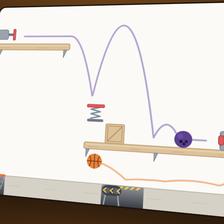
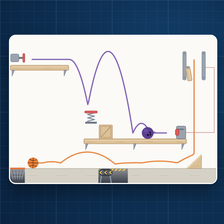
Play stage grows with its game; Machine copy and share card rewritten
The play column was stretched to exactly the window height, so a game
taller than the window spilled past it and its last row (Clock / How to
play / Give up) sat cut off at the edge even scrolled to the end. The
column now grows with its game. Games that fit are unchanged.

Machine now leads with 'Combine simple machines and tools into a
solution' everywhere, and gets a new blueprint share card and tile.

Claude-Session: https://claude.ai/code/session_01Hu59RNt8nMyqcZrs4B9qGX

diff --git a/lib/daily-games.js b/lib/daily-games.js
@@ -118,7 +118,7 @@ const RAW = [
   { key: 'errands', miss: 'Minutes behind', name: 'Errands', cat: 'Logic', tag: 'Plan the round, be home soonest', tagLong: 'Pick the order of your stops round town, keep every rule and be home as soon as you can', how: 'A town of streets seen from above, a list of stops and a few rules. A shop shuts at a set time, another opens late, something you buy has to be home before it spoils, and one stop has to come before another. Tap the stops in the order you will drive them. The route draws itself, the timetable fills in and each rule turns green or red. Trying an order costs nothing; Drive Home commits the trip. You are ranked on minutes behind the soonest possible trip. The town grows from four stops on Monday to eight on Sunday.', color: '#be123c', colorNavy: '#fda4af' },
   { key: 'dash', miss: 'Dollars short', name: 'Dash', cat: 'Logic', tag: 'Too many orders, make the most in tips', tagLong: 'Drive one delivery shift with more orders than you can carry and finish with the most in tips', how: 'A town of streets seen from above, restaurants with orders waiting and a door for each. There is never time to deliver them all. Tap an order to pick it up and again to drop it off. Every block and every stop costs minutes, the bag holds two, and a tip shrinks once its order runs late. Each order shows when you would arrive and what it would pay. Trying a plan costs nothing; End Shift commits the night. You are ranked on dollars short of the best possible shift. The town grows from five orders on Monday to ten restaurants on Sunday.', color: '#be123c', colorNavy: '#fda4af' },
   { key: 'pack', miss: 'Re-packs', name: 'Pack', cat: 'Visual', tag: 'Fit it all in the trunk', tagLong: 'Load every bag, box and sofa into the vehicle in three dimensions', how: 'A pile of luggage or furniture sits on the curb and all of it has to fit in the vehicle. Pick an item, tap where it goes, and it drops straight down and rests on whatever is under it. Turn it, tip it onto another side, and walk round the vehicle to look from every corner. Nothing may sit above the roof line. A sofa has a seat and a back, and a table has room underneath. Taking an item back out is a re-pack, and the fewest re-packs ranks first. The vehicle grows from a hatchback on Monday to a moving van on Sunday.', color: '#a21caf', colorNavy: '#f0abfc' },
-  { key: 'machine', miss: 'Runs', name: 'Machine', cat: 'Visual', tag: 'Finish the machine, then press Run', tagLong: 'Drag the last parts into place so the chain reaction does the job', how: 'A chain-reaction machine is mostly built. Drag ramps, springs, belts and more from the tray onto the board, press Run and watch real physics play out: balls carry weight and momentum, buttons open trapdoors and start fans, and the day is won when the ball lands in the hoop or rings the bell. Every run counts. Ranked on runs, then the clock.', color: '#b45309', colorNavy: '#fbbf24' },
+  { key: 'machine', miss: 'Runs', name: 'Machine', cat: 'Visual', tag: 'Combine simple machines into a solution', tagLong: 'Combine simple machines and tools into a solution, then press Run', how: 'Combine simple machines and tools into a solution. Set ramps, springs, belts and more from the tray onto the board, press Run and real physics plays out: balls carry weight and momentum, buttons open trapdoors and start fans, and the day is won when the ball lands in the hoop or rings the bell. Every run counts. Ranked on runs, then the clock.', color: '#b45309', colorNavy: '#fbbf24' },
   { key: 'junkyard', keepsAnswer: true, attempts: 'graded', miss: 'Moves', name: 'Junkyard', cat: 'Visual', tag: 'Parker on the biggest lot', tagLong: 'Parker on an eight by eight lot, the biggest of the three', how: 'Parker on an eight by eight lot, the biggest of the three. Everything still slides on one axis and there is still one gap in the wall. Nearly thirty blocks now stand between you and it, and Monday already runs deeper than any Parker board short of a Sunday.', color: '#5c3a16', colorNavy: '#d9b070' },
   { key: 'topple', keepsAnswer: true, attempts: 'graded', miss: 'Moves', name: 'Topple', cat: 'Visual', tag: 'Roll the block onto the spring', tagLong: 'Tip a tall block end over end and land it on the spring', how: 'Every roll tips the block over an edge. Land it on the spring: standing on a one-tile spring, lying flat across a two-tile one. Fall off or stand on an orange tile and you start over.', color: '#3f6212', colorNavy: '#bef264' },
   { key: 'roll', keepsAnswer: true, attempts: 'graded', miss: 'Moves', name: 'Roll', cat: 'Visual', tag: 'Light the squares in order', tagLong: 'Roll a die across the floor and light the numbered squares in order', how: 'Every roll tips the die over an edge. Light the numbered squares 1, 2, 3 in order, each by landing on it with that number on top. A square stays shut until it is next.', color: '#166534', colorNavy: '#86efac' },

diff --git a/app/machine/page.js b/app/machine/page.js
@@ -15,12 +15,12 @@ import { categoryCrumb } from '@/lib/game-seo';
 export const metadata = {
   title: 'Free Daily Contraption Puzzle: Machine | Mind Loft',
   description:
-    'A free daily physics puzzle like The Incredible Machine: drag ramps, springs and belts into place, press Run and make the chain reaction do the job.',
+    'A free daily physics puzzle like The Incredible Machine. Combine simple machines and tools into a solution, press Run and see if it works.',
   alternates: { canonical: '/machine' },
   openGraph: {
     images: [{ url: '/og/machine.png', width: 1200, height: 630, alt: 'Machine, a daily contraption puzzle from Mind Loft' }],
     title: 'Machine: The Daily Contraption Puzzle',
-    description: 'A machine that is almost built. Drag the last parts into place, press Run and watch the chain reaction.',
+    description: 'Combine simple machines and tools into a solution. Ramps, springs, belts and seesaws: set them up, press Run and see if it works.',
     url: '/machine',
     type: 'website',
     siteName: 'Mind Loft',
@@ -29,7 +29,7 @@ export const metadata = {
     images: ['/og/machine.png'],
     card: 'summary_large_image',
     title: 'Machine: The Daily Contraption Puzzle',
-    description: 'A machine that is almost built. Drag the last parts into place, press Run and watch the chain reaction.',
+    description: 'Combine simple machines and tools into a solution. Ramps, springs, belts and seesaws: set them up, press Run and see if it works.',
   },
 };
 
@@ -40,7 +40,7 @@ const gameJsonLd = {
   alternateName: 'Machine: The Daily Contraption Puzzle',
   url: `${SITE_URL}/machine`,
   description:
-    'A free daily physics puzzle in the spirit of The Incredible Machine: a chain-reaction machine is mostly built, and you drag a few parts from a tray (ramps, springs, belts, fans, bumpers and more) into place, press Run and watch real physics play out. Balls carry weight and momentum, buttons open trapdoors and start fans, and the day is won when the ball lands in the hoop, rings the bell or drops in the bucket. Ranked on the fewest runs, then the clock.',
+    'A free daily physics puzzle in the spirit of The Incredible Machine: combine simple machines and tools into a solution. Set ramps, springs, belts, fans, bumpers and more from a tray onto a board that is partly built, press Run and real physics plays out. Balls carry weight and momentum, buttons open trapdoors and start fans, and the day is won when the ball lands in the hoop, rings the bell or drops in the bucket. Ranked on the fewest runs, then the clock.',
   genre: ['Puzzle', 'Physics puzzle', 'Logic puzzle'],
   gamePlatform: 'Web browser',
   isAccessibleForFree: true,

diff --git a/app/DailyEndCard.jsx b/app/DailyEndCard.jsx
@@ -550,7 +550,7 @@ const ALL_DAILY_GAMES = [
   { key: 'errands', cat: 'logic', name: 'Errands', tag: 'Plan the round, be home soonest', blurb: 'A map, a list of stops and a few awkward opening hours. Find the order that gets you home soonest.', href: '/errands' },
   { key: 'dash', cat: 'logic', name: 'Dash', tag: 'Too many orders, make the most in tips', blurb: 'One shift, too many orders and a bag that holds two. Choose what to carry and make the most in tips.', href: '/dash' },
   { key: 'pack', cat: 'visual', name: 'Pack', tag: 'Fit it all in the trunk', blurb: 'A pile on the curb and one vehicle to fit it in. Drop each item into place, turn it, tip it, and look from every side.', href: '/pack' },
-  { key: 'machine', cat: 'visual', name: 'Machine', tag: 'Finish the machine, then press Run', blurb: 'A contraption that is almost built. Drag the last parts into place, press Run and watch the balls roll, bounce and set each other off.', href: '/machine' },
+  { key: 'machine', cat: 'visual', name: 'Machine', tag: 'Combine simple machines into a solution', blurb: 'Combine simple machines and tools into a solution. Set up ramps, springs and belts, press Run and see if the ball gets home.', href: '/machine' },
   { key: 'fill', cat: 'word', name: 'Fill', tag: 'Fit every word in the grid', blurb: 'An empty crossword grid and a list of themed words. Fit every one in, with the lengths and crossings as your only clues.', href: '/fill' },
   { key: 'pairs', cat: 'endgame', name: 'Pairs', tag: 'Concentration with a real deck', blurb: 'Thirty-six cards face down. Turn two at a time and pair each card with its twin, same rank and colour, in the fewest turns.', href: '/pairs' },
   { key: 'cell',  cat: 'endgame',     name: 'Cell',  tag: 'The daily FreeCell', blurb: 'FreeCell on a small deck, every card face up, and a perfect line proven to be the fewest moves. Forty cards on Sundays.', href: '/cell' },

diff --git a/app/PlayStage.jsx b/app/PlayStage.jsx
@@ -123,6 +123,14 @@ const CSS = `
    2026-11-12, the Arcade on the stage); :where keeps the specificity unchanged. */
 .pst button:where(:not(.pst-raw *)){font:inherit;color:var(--pst-ink);cursor:pointer;-webkit-tap-highlight-color:transparent;}
 .pst-col{width:100%;max-width:520px;padding:max(12px, env(safe-area-inset-top)) 14px max(14px, env(safe-area-inset-bottom));display:flex;flex-direction:column;gap:14px;min-height:100%;}
+/* THE COLUMN GROWS WITH ITS GAME (owner, 2026-11-18: "why are buttons at bottom of screen cut off? ... i can't even scroll
+   to see them... fix this anywhere it's an issue"). .pst is a fixed full-window flex row, and its column used to be
+   STRETCHED to exactly the window height (or the phone foot rule's window + 48px); a game taller than that spilled out
+   past the column, and the spill ended flush with the window edge with the column's bottom padding left behind, so the
+   last row (Clock / How to play / Give up) sat cut off at the edge. Not stretching lets the min-heights do the job: a
+   game that fits keeps exactly the column it had, a taller one grows and scrolls with its padding below. Checked
+   2026-11-18 across every play-stage daily on desktop and phone: only games that overflowed changed. */
+.pst:not(.inl){align-items:flex-start;}
 .pst-top{flex:1 0 auto;display:flex;flex-direction:column;justify-content:safe center;gap:12px;animation:pstRise .3s ease-out both;}
 .pst-eb{text-align:center;font-size:13px;font-weight:800;letter-spacing:.06em;text-transform:uppercase;opacity:.75;line-height:1.3;}
 .pst-q{margin:0;text-align:center;font-size:clamp(21px,6.4vw,26px);line-height:1.22;font-weight:800;letter-spacing:-.02em;padding-bottom:.08em;}

diff --git a/app/DailyGamesPromo.jsx b/app/DailyGamesPromo.jsx
@@ -117,7 +117,7 @@ export const DAILY_GAMES = [
   { key: 'errands', href: '/errands', name: 'Errands', tag: 'plan the round, be home soonest', store: 'sot_errands_day', accent: '#be123c', bg: '#ffe4e6', border: 'rgba(190,18,60,0.4)' },
   { key: 'dash', href: '/dash', name: 'Dash', tag: 'too many orders, make the most in tips', store: 'sot_dash_day', accent: '#be123c', bg: '#ffe4e6', border: 'rgba(190,18,60,0.4)' },
   { key: 'pack', href: '/pack', name: 'Pack', tag: 'fit it all in the trunk', store: 'sot_pack_day', accent: '#a21caf', bg: '#fae8ff', border: 'rgba(162,28,175,0.35)' },
-  { key: 'machine', href: '/machine', name: 'Machine', tag: 'finish the machine, then press Run', store: 'sot_machine_day', accent: '#b45309', bg: '#fef3c7', border: 'rgba(180,83,9,0.35)' },
+  { key: 'machine', href: '/machine', name: 'Machine', tag: 'combine simple machines into a solution', store: 'sot_machine_day', accent: '#b45309', bg: '#fef3c7', border: 'rgba(180,83,9,0.35)' },
   { key: 'fill', href: '/fill', name: 'Fill', tag: 'fit every word in the grid', store: 'sot_fill_day', accent: '#047857', bg: '#d1fae5', border: 'rgba(4,120,87,0.4)' },
   { key: 'pairs', href: '/pairs', name: 'Pairs', tag: 'concentration with a real deck', store: 'sot_pairs_day', accent: '#b91c1c', bg: '#fee2e2', border: 'rgba(185,28,28,0.4)' },
   { key: 'cell', href: '/cell', name: 'Cell', tag: 'the daily FreeCell', store: 'sot_cell_day', accent: '#0e7490', bg: '#e6f4f7', border: 'rgba(14,116,144,0.4)' },

diff --git a/app/archive/page.js b/app/archive/page.js
@@ -517,7 +517,7 @@ const GAMES = [
   { key: 'roll', name: 'Roll', path: '/roll', tag: 'Light the squares in order', accent: '#166534', bg: '#dcfce7', border: 'rgba(22,101,52,0.35)', src: ROLL },
   { key: 'tangled', name: 'Tangled', path: '/tangled', tag: 'Untangle the ropes', accent: '#0f766e', bg: '#ccfbf1', border: 'rgba(15,118,110,0.35)', src: TANGLED },
   { key: 'pack', name: 'Pack', path: '/pack', tag: 'Fit it all in the trunk', accent: '#a21caf', bg: '#fae8ff', border: 'rgba(162,28,175,0.35)', src: PACK },
-  { key: 'machine', name: 'Machine', path: '/machine', tag: 'Finish the machine, then press Run', accent: '#b45309', bg: '#fef3c7', border: 'rgba(180,83,9,0.35)', src: MACHINE },
+  { key: 'machine', name: 'Machine', path: '/machine', tag: 'Combine simple machines into a solution', accent: '#b45309', bg: '#fef3c7', border: 'rgba(180,83,9,0.35)', src: MACHINE },
   { key: 'witness', name: 'Witness', path: '/witness', tag: 'What did you see?', accent: '#9f1239', bg: '#ffe4e6', border: 'rgba(159,18,57,0.35)', src: WITNESS },
   { key: 'defuse', name: 'Defuse', path: '/defuse', tag: 'Cut the wires in the safe order', accent: '#7c2d12', bg: '#ffedd5', border: 'rgba(124,45,18,0.35)', src: DEFUSE },
   { key: 'spot', name: 'Spot', path: '/spot', tag: 'Find the seven differences', accent: '#be123c', bg: '#ffe4e6', border: 'rgba(190,18,60,0.35)', src: SPOT },

diff --git a/app/DailyStrip.jsx b/app/DailyStrip.jsx
@@ -192,7 +192,7 @@ const GAMES = [
   { key: 'errands', href: '/errands', name: 'Errands', img: '/games/btn-errands.png', store: 'sot_errands_day', tag: "Plan the round, be home soonest" , cat: 'Logic' },
   { key: 'dash', href: '/dash', name: 'Dash', img: '/games/btn-dash.png', store: 'sot_dash_day', tag: "Too many orders, make the most in tips" , cat: 'Logic' },
   { key: 'pack', href: '/pack', name: 'Pack', img: '/games/btn-pack.png', store: 'sot_pack_day', tag: "Fit it all in the trunk" , cat: 'Visual' },
-  { key: 'machine', href: '/machine', name: 'Machine', img: '/games/btn-machine.png', store: 'sot_machine_day', tag: "Finish the machine, then press Run" , cat: 'Visual' },
+  { key: 'machine', href: '/machine', name: 'Machine', img: '/games/btn-machine.png', store: 'sot_machine_day', tag: "Combine simple machines into a solution" , cat: 'Visual' },
   { key: 'fill', href: '/fill', name: 'Fill', img: '/games/btn-fill.png', store: 'sot_fill_day', tag: "Fit every word in the grid" , cat: 'Word' },
   { key: 'pairs', href: '/pairs', name: 'Pairs', img: '/games/btn-pairs.png', store: 'sot_pairs_day', tag: "Concentration with a real deck" , cat: 'Table Games' },
   { key: 'cell', href: '/cell', name: 'Cell', img: '/games/btn-cell.png', store: 'sot_cell_day', tag: "The daily FreeCell" , cat: 'Table Games' },

diff --git a/app/machine/MachineClient.jsx b/app/machine/MachineClient.jsx
@@ -80,9 +80,9 @@ export const GAME = {
   frac: (P, s) => (s.won ? 1 : 0),
   sundayLabel: () => 'Sunday Edition',
   gateTitle: (P) => `Today: ${P.goalText}`,
-  gateLine: (P) => `Most of the machine is built. Drag parts from the tray into place (or tap a part, then tap the spot), press Run and watch it go. Not every part is needed. Every run counts, so look before you press.`,
+  gateLine: (P) => `Combine simple machines and tools into a solution. Drag parts from the tray onto the board (or tap a part, then tap the spot), then press Run. Not every part is needed, and every run counts, so look before you press.`,
   rules: () => ({
-    lead: 'Finish the machine so it does the day\'s job.',
+    lead: 'Combine simple machines and tools into a solution.',
     steps: [
       <><b>Drag</b> a part from the tray onto the board, or <b>tap</b> it and then tap the spot where it goes. Drag a placed part to move it, or tap it and tap a new spot. Tap it to flip it or put it back, or drag it off the board.</>,
       <>Press <b>Run</b>. The balls have real weight and momentum: they arc off ledges, speed up down ramps, bounce off springs and bumpers, and knock each other along.</>,

diff --git a/app/DailyGamesGrid.jsx b/app/DailyGamesGrid.jsx
@@ -208,7 +208,7 @@ const GAMES = [
   { key: 'errands', href: '/errands', name: 'Errands', tag: 'Plan the round, be home soonest', img: '/games/btn-errands.png' },
   { key: 'dash', href: '/dash', name: 'Dash', tag: 'Too many orders, make the most in tips', img: '/games/btn-dash.png' },
   { key: 'pack', href: '/pack', name: 'Pack', tag: 'Fit it all in the trunk', img: '/games/btn-pack.png' },
-  { key: 'machine', href: '/machine', name: 'Machine', tag: 'Finish the machine, then press Run', img: '/games/btn-machine.png' },
+  { key: 'machine', href: '/machine', name: 'Machine', tag: 'Combine simple machines into a solution', img: '/games/btn-machine.png' },
   { key: 'fill', href: '/fill', name: 'Fill', tag: 'Fit every word in the grid', img: '/games/btn-fill.png' },
   { key: 'pairs', href: '/pairs', name: 'Pairs', tag: 'Concentration with a real deck', img: '/games/btn-pairs.png' },
   { key: 'cell', href: '/cell', name: 'Cell', tag: 'The daily FreeCell', img: '/games/btn-cell.png' },

diff --git a/lib/game-blurbs.js b/lib/game-blurbs.js
@@ -92,7 +92,7 @@ export const GAME_BLURBS = {
   errands: "Plan your stops and be home as soon as you can.",
   dash: "Drive a delivery shift and make the most in tips.",
   pack: "Fit every bag, box and sofa into the vehicle.",
-  machine: "Drag the last parts into place and run the machine.",
+  machine: "Combine simple machines and tools into a solution.",
   spot: "Two copies of one photo, seven differences to find.",
   sudoclue: "A logic grid murder: name victim, killer and accomplice.",
   impound: "Parker on a seven by seven lot with longer trucks.",

diff --git a/docs/claude/games-other.md b/docs/claude/games-other.md
@@ -2953,6 +2953,15 @@ Visual, skills Spatial and Planning, on `app/SimpleDaily.jsx`. Wired by `scripts
   touch; the board shows a faint snapped outline of where it will land (red where it will not fit). Tray chips are
   `touch-action:none` so a phone drag never turns into a page scroll. A miss leaves the ball paths drawn; Reset goes
   back to building with the parts where they were. Every Run counts (saved as `runs`, posted as `guesses_used`).
+- **Copy and card (owner, 2026-11-18: "the share link image looks awful, as does the description... 'drag in the last
+  parts, watch it go'... really? 'Combine simple machines and tools into a solution'").** The owner's line leads every
+  surface: tag "Combine simple machines into a solution", blurbs, gate line, meta and share descriptions. Never
+  "finish the machine" / "watch it go" again. `public/og/machine.png` is a blueprint-blue card: a flat, fully framed
+  board #1 frozen as the basketball drops for the hoop, with the real engine's ball paths, and a row of part chips
+  (Ramp, Spring, Belt, Seesaw, Bumper). `public/og/tile/machine.png` is the board alone on the blueprint. Source:
+  render the card HTML with a bundle of lib/machine-art.js + machine-ui.js + puzzles.js and local Manrope woffs.
+- **Spare parts.** Every board carries at least one tray part the solution does not use (the verifier insists), so
+  "what is the glue pad for?" is answered by the tray hint: not every part is needed.
   Ranked runs, then the clock (the default first-attempt order; NOT in CLOCK_FIRST). Solved 10, give-up 0
   (SOLVE_ONLY). The save is `{ parts: [{ ti, px, py, dir }], runs, won }`; a stored win is re-run through the engine
   in `validSave` before it is believed.

diff --git a/docs/claude/home-and-ui.md b/docs/claude/home-and-ui.md
@@ -2933,3 +2933,17 @@ screen (the two small Top rows over three-across tiles).
   the attribute highlights on a single row"): name and a two-line blurb beside the art, then the fact
   chips full width on ONE line (`flex-wrap:nowrap`), then the crowd strip. Applies to every phone
   `.mph-gg.det` card (home rows and panes).
+
+## The play stage's column grows with its game (owner, 2026-11-18)
+
+Owner: "why are buttons at bottom of screen cut off? fine that they are cut off, but i can't even scroll to see them...
+fix this anywhere it's an issue." `.pst` (app/PlayStage.jsx) is a fixed full-window flex row that scrolls inside
+itself, and `.pst-col` used to be STRETCHED to exactly the window height (or the phone foot rule's window + 48px in
+app/StageFoot.jsx). A game taller than that spilled out of the column; the spill ended flush with the window edge with
+the column's bottom padding left behind, so the foot row (Clock / How to play / Give up) sat cut off at the edge even
+scrolled to the end. Fixed with `.pst:not(.inl){align-items:flex-start}`: the min-heights still set the floor, a
+taller game grows the column and scrolls with its padding below. Checked by loading each daily once and comparing
+the first screen with the old rule injected: no game that fit changed (desktop 1280x800 and phone 390x700), and
+Crux, Scour, Links, Span, Tally, Tuck, Alibi, Fill, Outwit, Sworn, Shards and Machine went from cut to padded.
+Jig, Saw, Redact and Carmen pin the column to the window on purpose (`height:100%;min-height:0`) and keep that.
+Rule: never set a fixed height on `.pst-col` unless the board is meant to fill the window and fit it.
